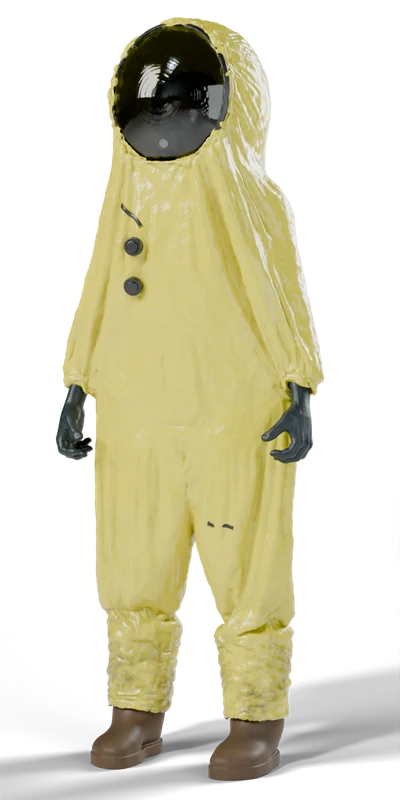
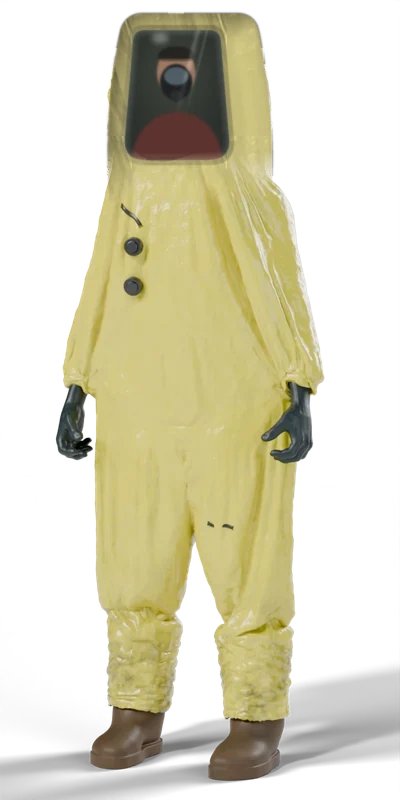
Traje nível A: capuz alto de topo reto com visor grande (não redondo)
Claude-Session: https://claude.ai/code/session_01UdsL3bCh6iyzEWJU9jDkJQ

Changed region(s): [[0.27, 0.0, 0.69, 0.25]]

diff --git a/index.html b/index.html
@@ -2019,7 +2019,7 @@ function foot(){var names={e:{pt:'EPI e EPR',en:'PPE and RPE',es:'EPP y EPR'}[st
 /*EPI-JS*/
 /* ---------- EPI / EPR (fluxogramas da ABNT NBR 14064:2015) ---------- */
 /* ---- figuras: renderizações 2,5D (suitart/render.py, products.py) em fig/epi/ ---- */
-function epImg(n,w,h,alt){return '<img class="epfig" src="fig/epi/'+n+'.webp?v=7" width="'+w+'" height="'+h+'" alt="'+esc(alt)+'" decoding="async">';}
+function epImg(n,w,h,alt){return '<img class="epfig" src="fig/epi/'+n+'.webp?v=8" width="'+w+'" height="'+h+'" alt="'+esc(alt)+'" decoding="async">';}
 function epFig(k){return epImg(k,200,400,EPX().lv[k][0]);}
 function epGear(k){return epImg(k,200,240,EPX().lv[k][0]);}
 function epTypeFig(k){var n={scba:'S',full:'P'}[k]||k;return epImg(n,200,240,EPTX().it[k][0]);}
